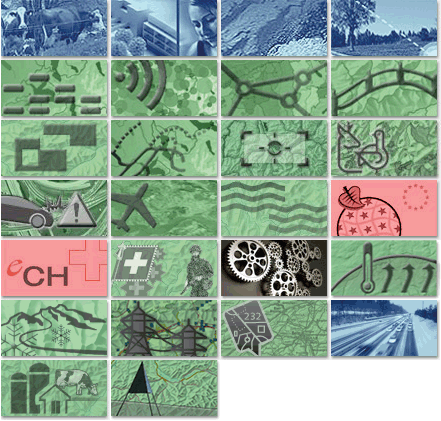
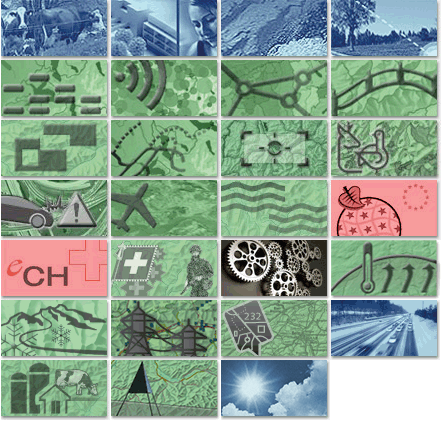
added new topic meteoschweiz

Changed region(s): [[0.5011, 0.8337, 0.7664, 1.0]]

diff --git a/src/components/topic/style/topic.less b/src/components/topic/style/topic.less
@@ -171,4 +171,7 @@
   .ga-topics-sprite-emapis {
     background-position: 0px -360px;
   }
+  .ga-topics-sprite-meteoschweiz {
+    background-position: -220px -360px;
+  }
 }
